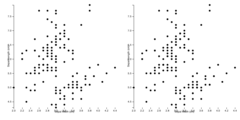
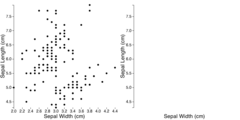
Updated axis styles in scatter plot zooming example

diff --git a/examples/scatterZoom/styles.css b/examples/scatterZoom/styles.css
@@ -32,8 +32,14 @@
 }
 
 /* Begin CSS common to both visualizations. */
-.axis {
-  font: 10px sans-serif;
+.axis .tick text {
+  /* TODO move this into inline CSS defined by a Model property xAxisTickTextSize. */
+  font: 12pt sans-serif;
+}
+
+.axis text {
+  /* TODO move this into inline CSS defined by a Model property xAxisTextSize. */
+  font: 16pt sans-serif;
 }
 
 .axis path,
